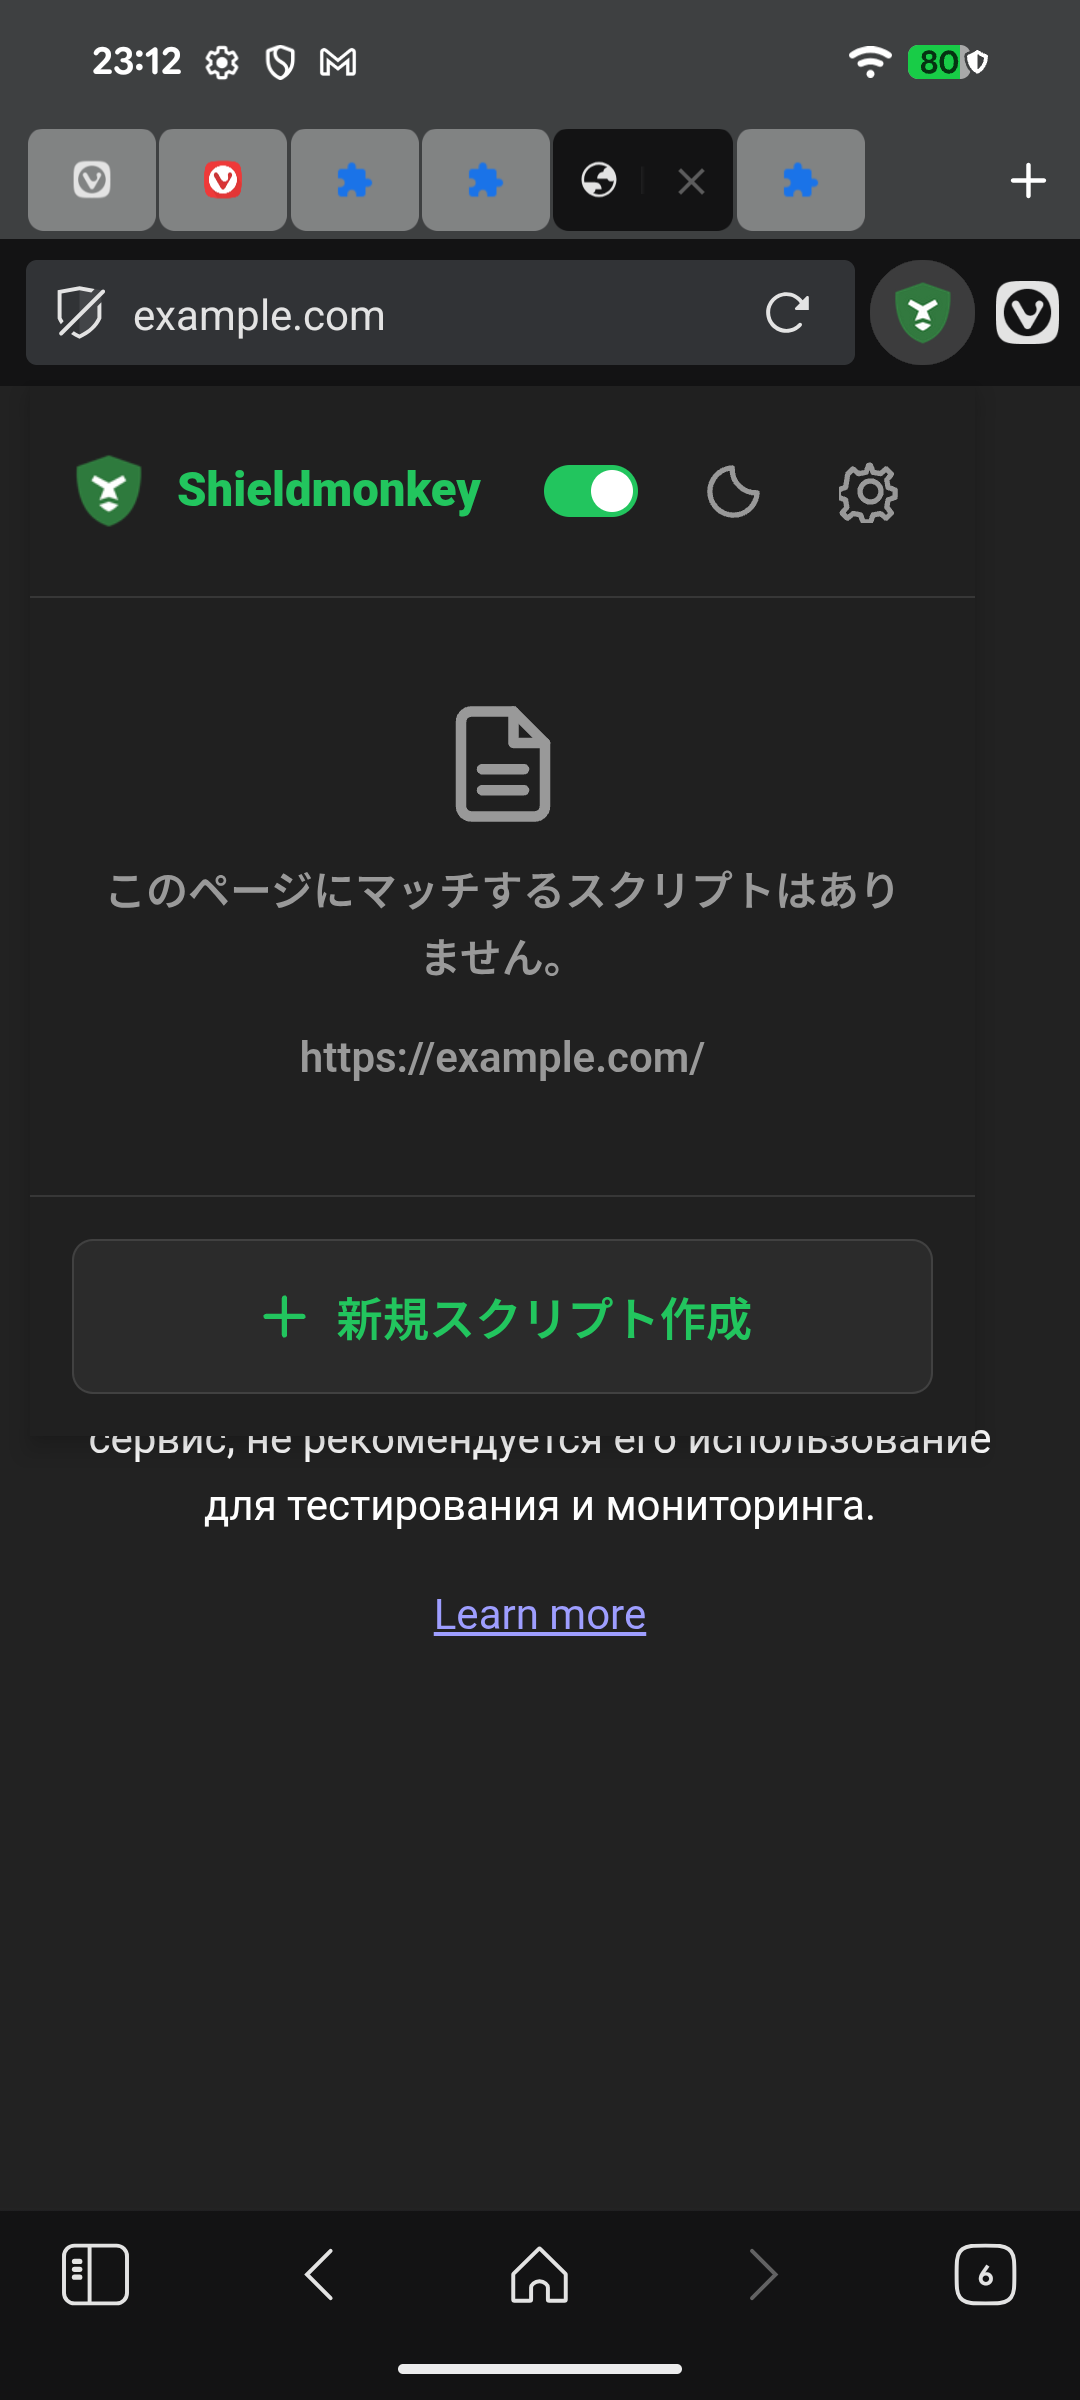
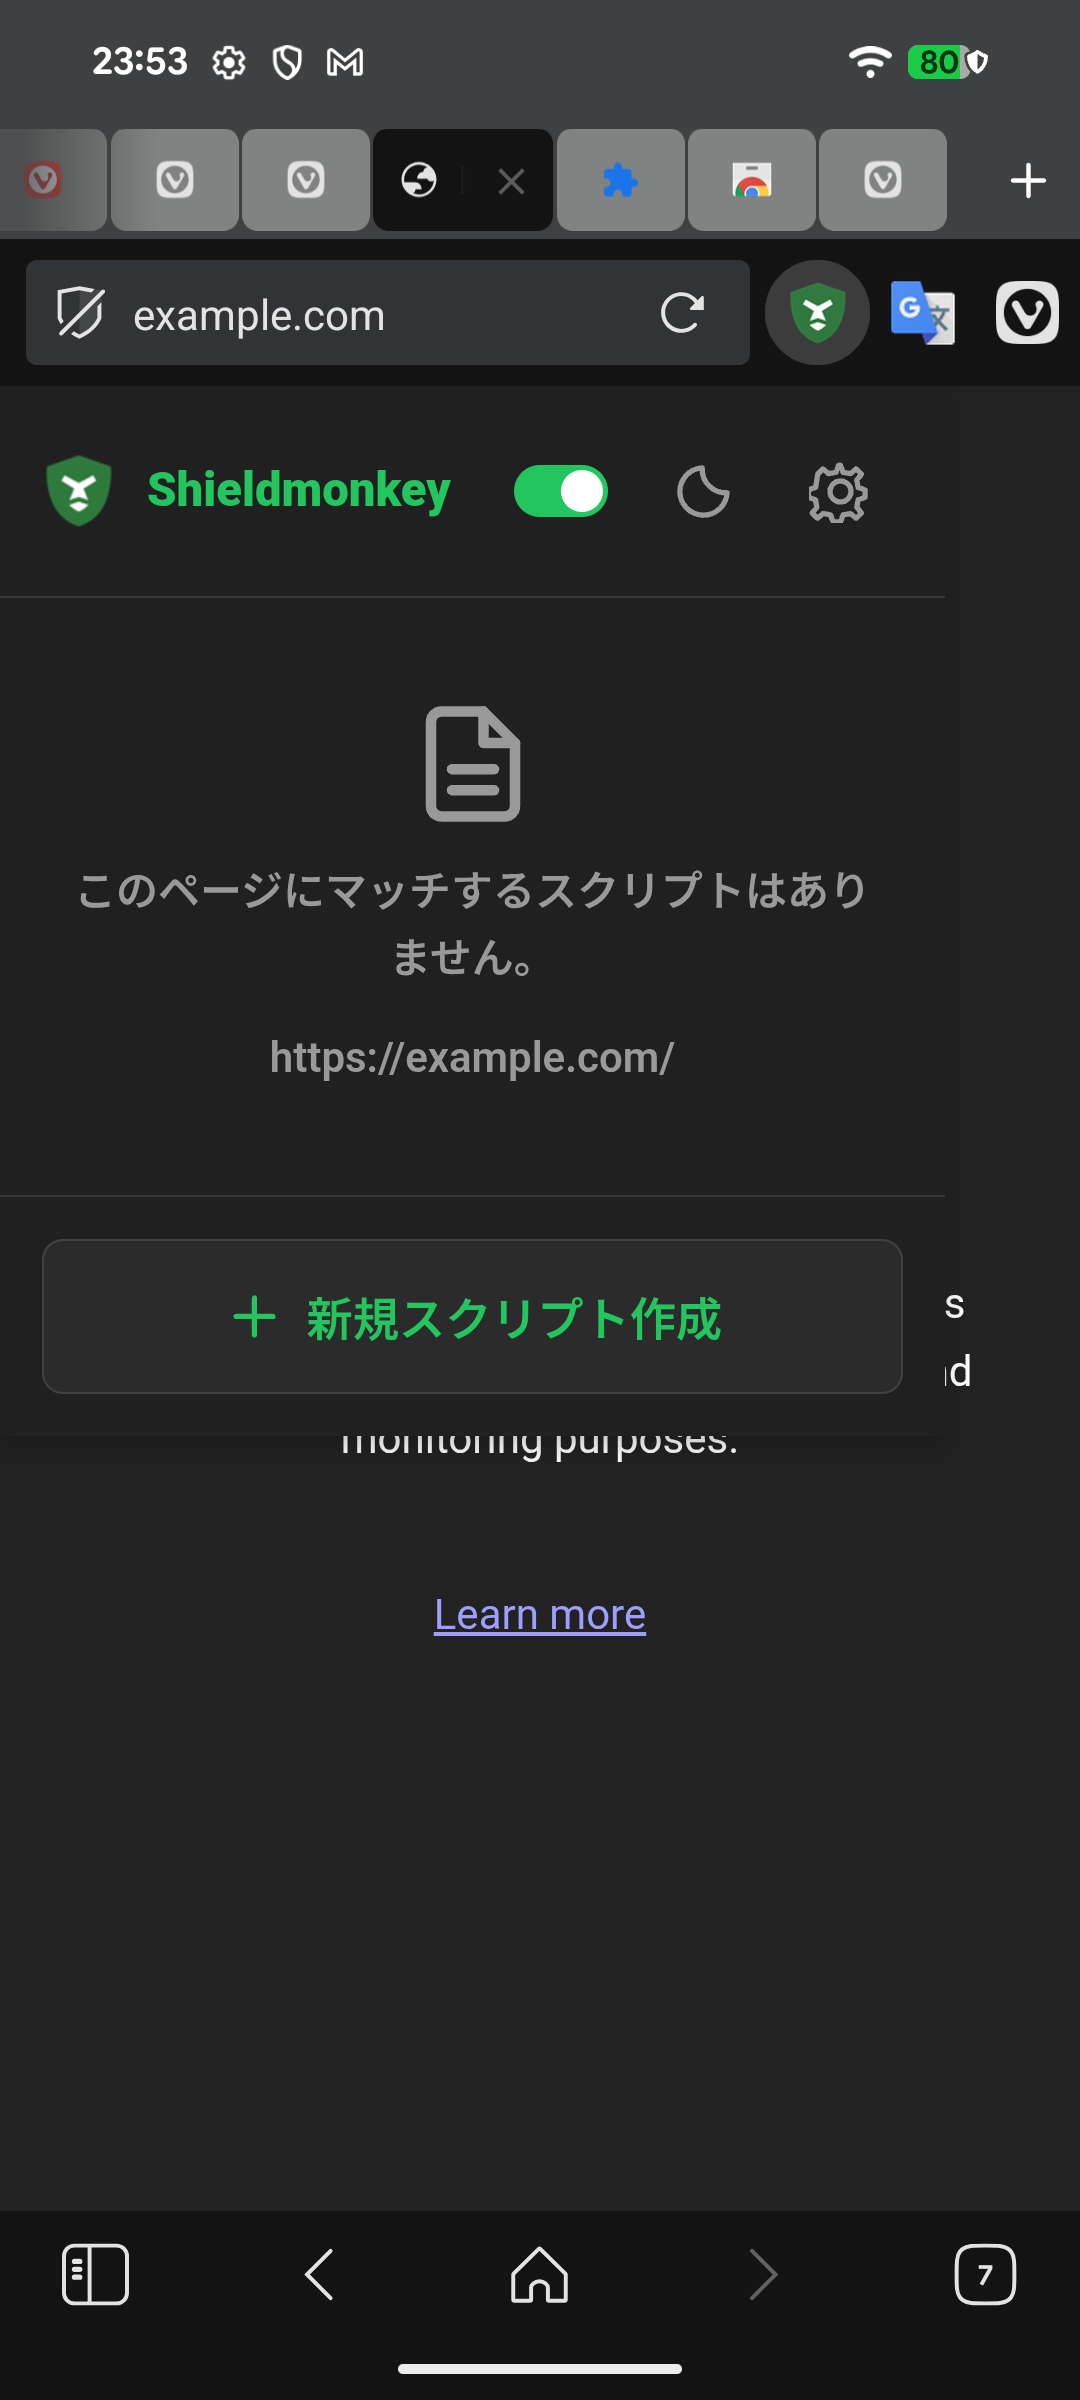
Reduce unpacked Vivaldi popup file latency

diff --git a/src/popup/main.ts b/src/popup/main.ts
@@ -12,6 +12,10 @@ document.body.style.width = mobile ? `${Math.min(360, (screen.availWidth || scre
 document.body.style.height = mobile ? `${Math.min(400, screen.availHeight || screen.height || 400)}px` : '600px';
 
 const root = document.getElementById('root')!;
+const logoImage = root.querySelector<HTMLImageElement>('#popup-placeholder img') ?? document.createElement('img');
+if (!logoImage.hasAttribute('src')) logoImage.src = '/icons/icon48.png';
+logoImage.alt = '';
+logoImage.className = 'logo-img';
 const paths = {
     settings: '<path d="M12 8a4 4 0 1 0 0 8 4 4 0 0 0 0-8"/><path d="M12 2l1 2.7 2.8.5 2.2-1.8 2 2-1.8 2.2.5 2.8 2.7 1v2.8l-2.7 1-.5 2.8 1.8 2.2-2 2-2.2-1.8-2.8.5-1 2.7h-2.8l-1-2.7-2.8-.5-2.2 1.8-2-2 1.8-2.2-.5-2.8-2.7-1v-2.8l2.7-1 .5-2.8L3.3 5.4l2-2 2.2 1.8 2.8-.5L11.3 2z"/>',
     sun: '<circle cx="12" cy="12" r="4"/><path d="M12 2v2m0 16v2M4.93 4.93l1.42 1.42m11.3 11.3 1.42 1.42M2 12h2m16 0h2M4.93 19.07l1.42-1.42m11.3-11.3 1.42-1.42"/>',
@@ -179,12 +183,9 @@ function render(): void {
     const container = el('div', 'popup-container');
     const header = el('header', 'popup-header');
     const logo = el('div', 'logo-area');
-    const image = el('img', 'logo-img');
-    image.src = '/icons/icon48.png';
-    image.alt = '';
     const global = el('div', 'global-switch-container');
     global.append(switchControl(extensionEnabled, t('appName'), checked => { void toggleGlobal(checked); }));
-    logo.append(image, el('h1', '', t('appName')), global);
+    logo.append(logoImage, el('h1', '', t('appName')), global);
     const tools = el('div', 'popup-tools');
     const themeIcon: Icon = theme === 'light' ? 'sun' : theme === 'dark' ? 'moon' : 'monitor';
     tools.append(
